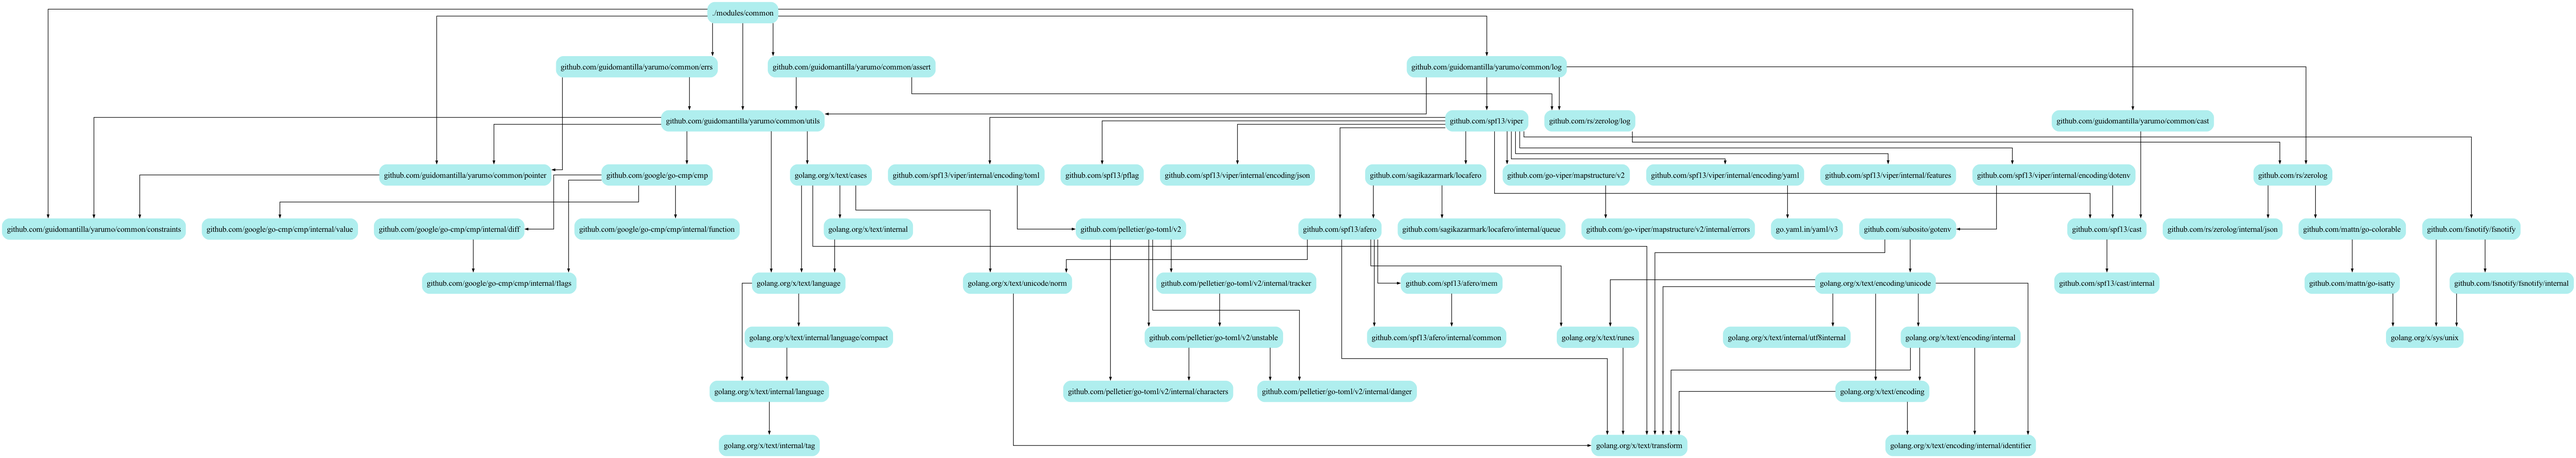
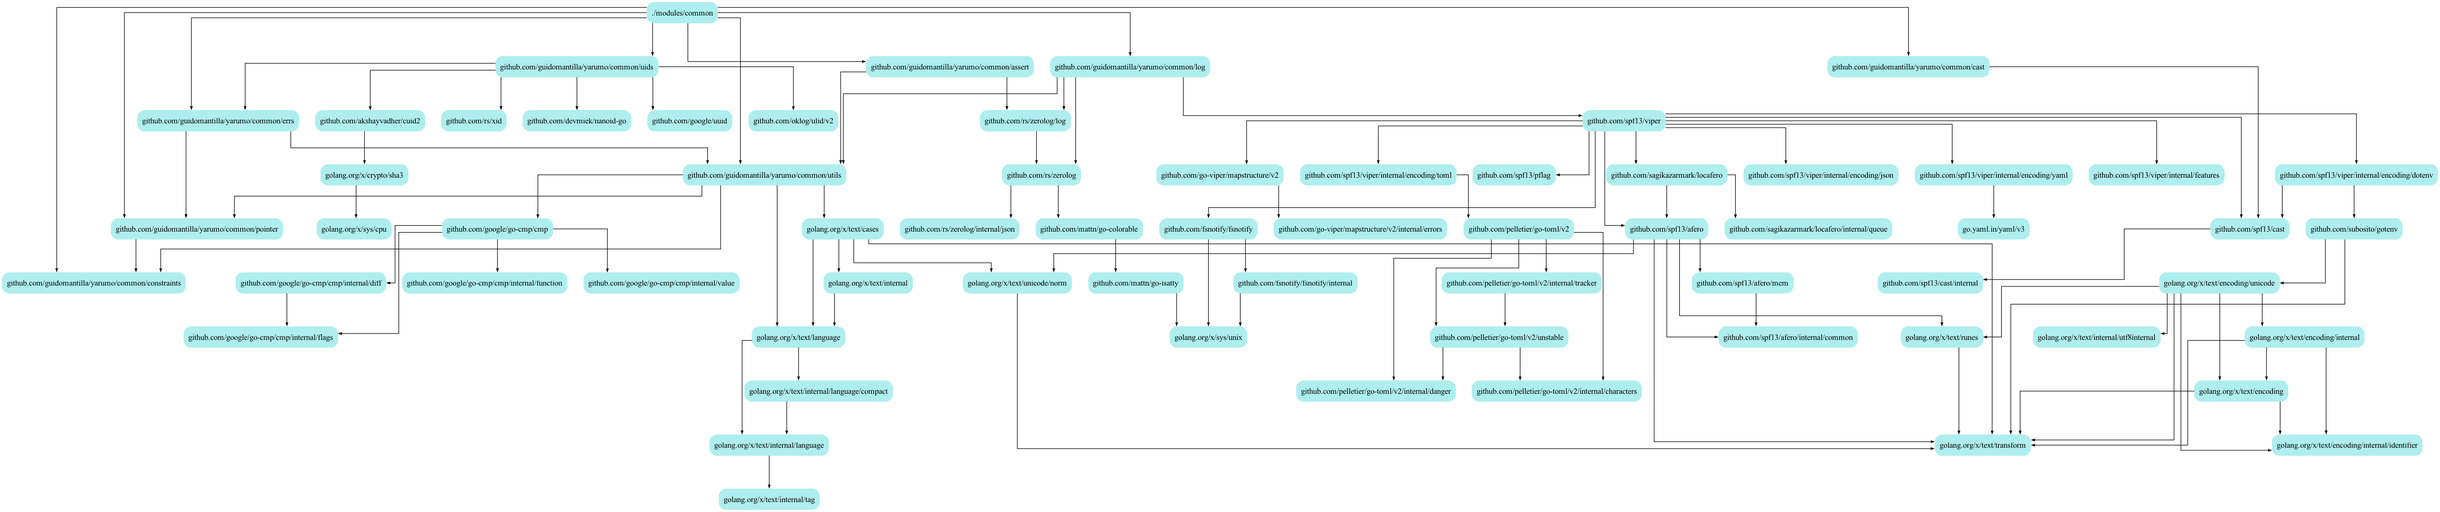
updates

diff --git a/modules/security/tokens/generator_jwt.go b/modules/security/tokens/generator_jwt.go
@@ -93,6 +93,6 @@ func (manager *jwtGenerator) Validate(tokenString string) (Principal, error) {
 		return nil, ErrTokenValidation(ErrTokenEmptyPrincipal)
 	}
 
-	principal := Principal(value.(map[string]interface{}))
+	principal := Principal(value.(map[string]any))
 	return principal, nil
 }

diff --git a/modules/common/graph.go b/modules/common/graph.go
@@ -7,5 +7,6 @@ import (
 	_ "github.com/guidomantilla/yarumo/common/errs"
 	_ "github.com/guidomantilla/yarumo/common/log"
 	_ "github.com/guidomantilla/yarumo/common/pointer"
+	_ "github.com/guidomantilla/yarumo/common/uids"
 	_ "github.com/guidomantilla/yarumo/common/utils"
 )
